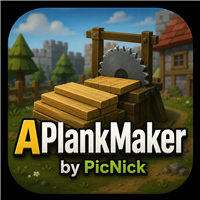
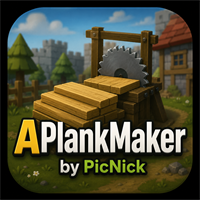
Publish APlankMaker v4.42 public package

diff --git a/README.md b/README.md
@@ -12,7 +12,7 @@ APlankMaker is a DreamBot plank-production script by PicNick.
 
 ## Public Release
 
-- **Current public release:** v4.41
+- **Current public release:** v4.42
 - **Jar:** `releases/AI-Plank-Maker-DreamBot-Public.jar`
 - **DreamBot script name:** `APlankMaker`
 - **DreamBot script module:** `PicNickScripts`